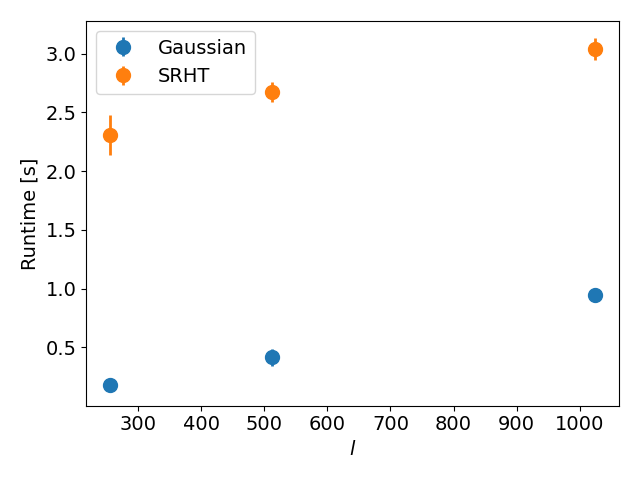
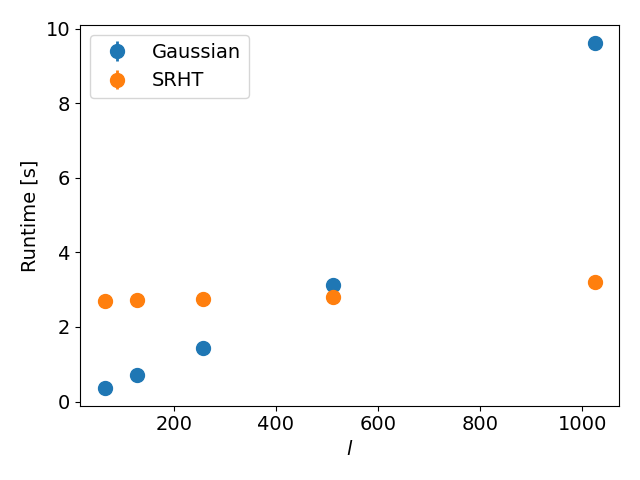
Uploading figures from sequential experiment.

diff --git a/code/plot.py b/code/plot.py
@@ -150,8 +150,8 @@ def plot_synthetic_spectra( n, r ):
 
 
 if __name__ == '__main__':
-    plot_synthetic_spectra( 30+5, 5 )
-    #seq_data_dict, par_data_dict = import_data()
-    #l_variation( seq_data_dict )
-    #n_variation( seq_data_dict )
+    #plot_synthetic_spectra( 30+5, 5 )
+    seq_data_dict, par_data_dict = import_data()
+    l_variation( seq_data_dict )
+    n_variation( seq_data_dict )
     #cores_variation( par_data_dict, [4] )
